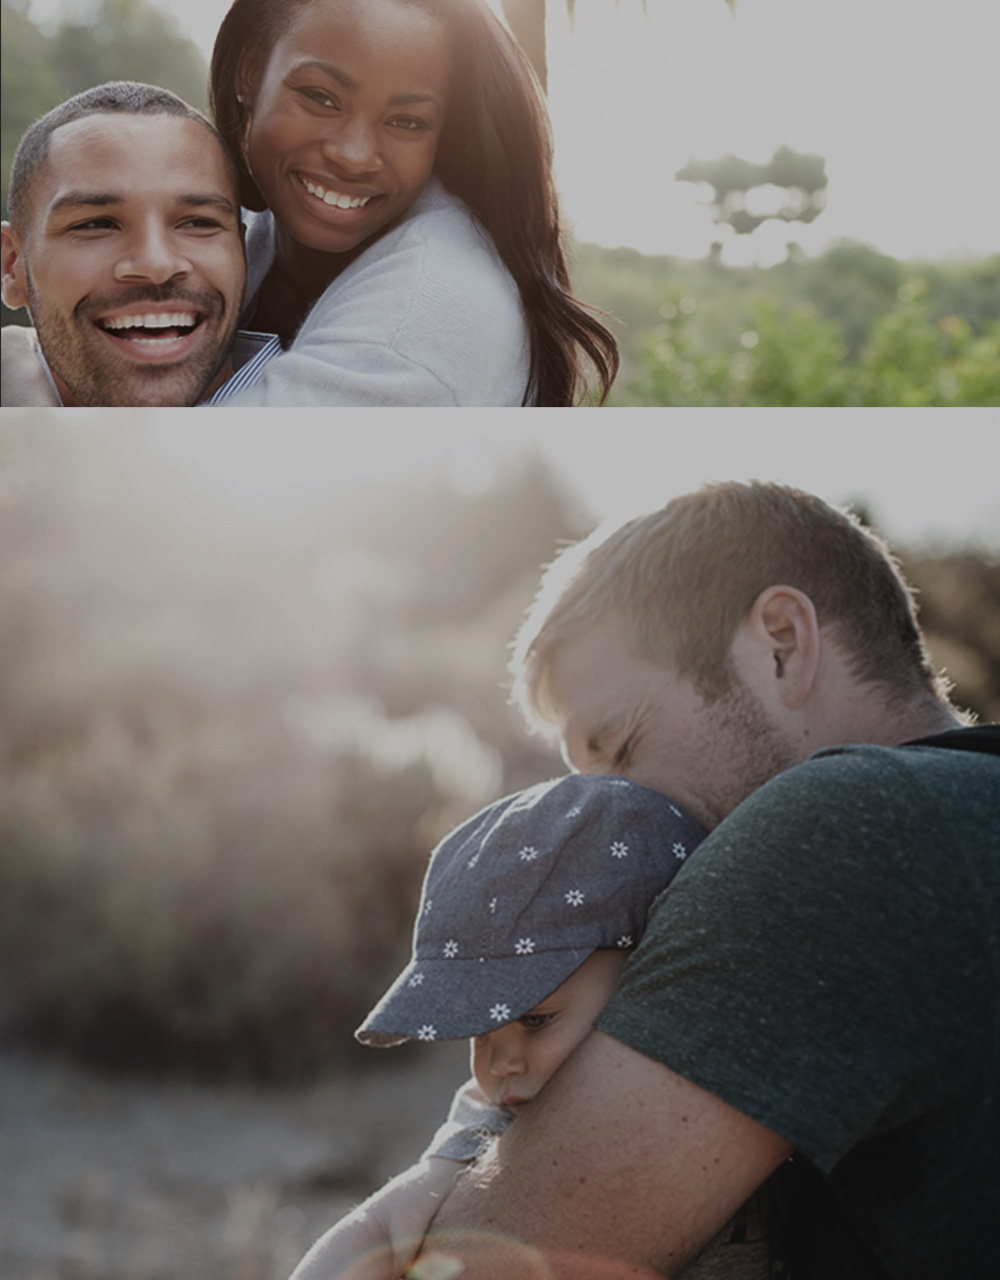
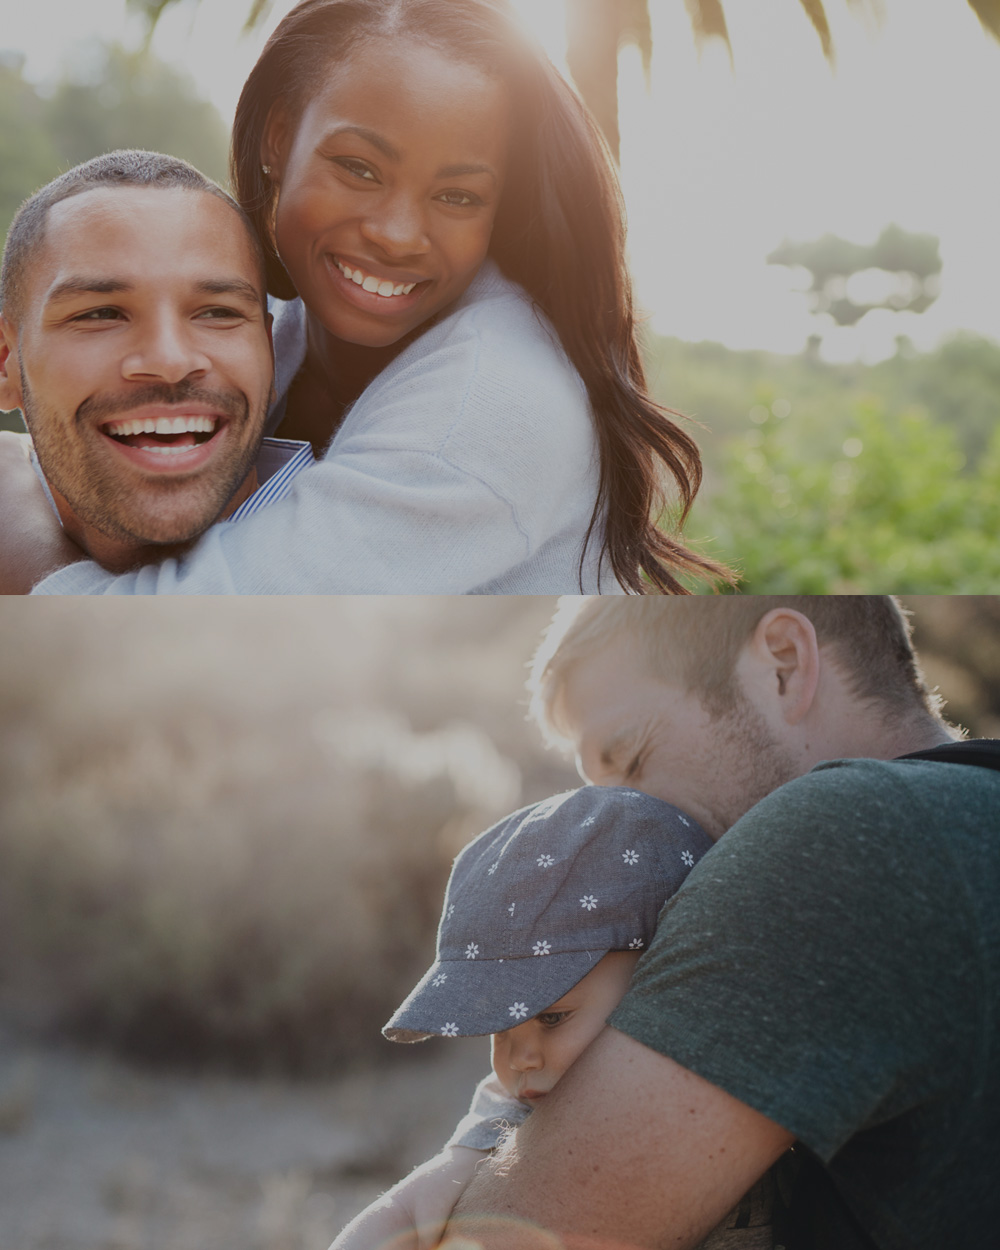
responsive styles

diff --git a/village/css/main.css b/village/css/main.css
@@ -152,7 +152,7 @@ p {
     color: #197bd6; }
   .section-copy h3 {
     font-size: 40px;
-    line-height: 40px;
+    line-height: 45px;
     margin-bottom: 40px; }
   .section-copy p {
     font-size: 18px;
@@ -174,7 +174,7 @@ Header
 header {
   position: fixed;
   z-index: 999;
-  background: white;
+  background: rgba(255, 255, 255, 0.9);
   width: 100%;
   height: 100px;
   top: 0;
@@ -184,11 +184,11 @@ header {
     height: 100%; }
   header .logo {
     padding-top: 15px;
-    margin-left: 60px; }
+    margin-left: 0; }
   header nav {
     position: absolute;
     top: 0;
-    right: 60px; }
+    right: 0; }
     header nav li {
       display: inline;
       height: 100px;
@@ -230,7 +230,7 @@ Hero
     max-width: 480px; }
     .hero .hero-copy h1 {
       font-size: 70px;
-      line-height: 70px;
+      line-height: 75px;
       color: white; }
     .hero .hero-copy h2 {
       font-size: 28px;
@@ -254,7 +254,8 @@ About Us
 
 –––––––––––––––––––––––––––––––––––––––––––––––––––––––––––––––––––––––– */
 .about-us {
-  height: 100%; }
+  height: 100%;
+  min-height: 850px; }
   .about-us .col-1-2 {
     height: 100%; }
   .about-us .section-image {
@@ -284,10 +285,10 @@ FAQs
   .faq-questions .question h4 {
     font-size: 20px;
     line-height: 28px;
-    margin-bottom: 15px; }
+    margin-bottom: 3px; }
   .faq-questions .question p {
     font-size: 18px;
-    line-height: 30px;
+    line-height: 28px;
     color: #999; }
 
 /* –––––––––––––––––––––––––––––––––––––––––––––––––––––––––––––––––––––
@@ -305,14 +306,16 @@ Pre-Register
     right: 0;
     padding: 0 60px 0 0;
     max-width: 550px; }
+    .pre-register .section-copy h3 {
+      text-indent: -2px; }
   .pre-register .section-form {
     height: 100%;
     float: right;
-    background: #197bd6; }
+    background: #197bd6;
+    padding-left: 60px; }
     .pre-register .section-form form {
       width: 100%;
       max-width: 550px;
-      padding-left: 60px;
       margin-top: 5px; }
       .pre-register .section-form form .field {
         margin-top: 15px; }
@@ -321,6 +324,7 @@ Pre-Register
         height: 50px;
         padding: 0 20px;
         font-size: 18px;
+        font-family: 'Lato', sans-serif;
         color: white;
         border: 2px solid rgba(255, 255, 255, 0.5);
         background: transparent;
@@ -363,7 +367,7 @@ Footer
 –––––––––––––––––––––––––––––––––––––––––––––––––––––––––––––––––––––––– */
 footer {
   padding: 60px 0;
-  background: #f6f6f6;
+  border-top: 1px solid #ddd;
   font-size: 12px;
   line-height: 50px; }
   footer .logo-mark {
@@ -375,6 +379,16 @@ footer {
       text-transform: uppercase; }
       footer .logo-mark li img {
         vertical-align: middle; }
+      footer .logo-mark li a {
+        color: #999;
+        text-decoration: none;
+        -webkit-transition: all 0.8s cubic-bezier(0.19, 1, 0.22, 1);
+        -moz-transition: all 0.8s cubic-bezier(0.19, 1, 0.22, 1);
+        -ms-transition: all 0.8s cubic-bezier(0.19, 1, 0.22, 1);
+        -o-transition: all 0.8s cubic-bezier(0.19, 1, 0.22, 1);
+        transition: all 0.8s cubic-bezier(0.19, 1, 0.22, 1); }
+        footer .logo-mark li a:hover {
+          color: #555; }
   footer .copyright {
     float: right;
     height: 50px;
@@ -486,7 +500,7 @@ footer {
     .faq-questions .question h4 {
       font-size: 18px;
       line-height: 26px;
-      margin-bottom: 10px; }
+      margin-bottom: 3px; }
     .faq-questions .question p {
       font-size: 16px;
       line-height: 26px; }

diff --git a/village/index.html b/village/index.html
@@ -18,7 +18,7 @@
 	
 	
 	<header>
-		
+		<div class="container">
 			<div class="logo scroll-to-link" data-id="hero"><img src="img/village-logo-blue.png" height="70"></div>
 			<nav>
 				<ul>
@@ -27,8 +27,7 @@
 					<li class="scroll-to-link" data-id="pre-register">Pre-Register</li>
 				</ul>
 			</nav>
-		
-		
+		</div>		
 	</header>
 
 		
@@ -39,7 +38,7 @@
 				<div class="col-1-2 flex-center-v">
 					<div class="hero-copy">
 						<h1>Welcome to the Village.</h1>
-						<h2>We're making medical care more affordable for you and your neighbors.</h2>
+						<h2>We're making medical care easy and affordable for you and your neighbors.</h2>
 						<button class="btn_primary scroll-to-link" data-id="pre-register">Pre-Register</button>
 					</div>
 				</div>
@@ -68,7 +67,7 @@
 					<div class="faq-questions">
 						<div class="question open">
 							<h4>This is question number one that needs to be answered in this section?</h4>
-							<p>Thundercats letterpress fixie health goth, pickled sartorial poutine viral hashtag. Meditation activated charcoal VHS, direct trade celiac hot chicken tousled franzen. Man bun austin pork belly hella put a bird on it slow-carb, raw denim yr post-ironic taxidermy meditation coloring book artisan. </p>
+							<p>Thundercats letterpress fixie health goth, pickled sartorial poutine viral hashtag. Meditation activated charcoal VHS, direct trade celiac hot chicken tousled franzen. </p>
 						</div>
 						<div class="question">
 							<h4>This is question number two that needs to be answered in this section?</h4>
@@ -76,11 +75,11 @@
 						</div>
 						<div class="question">
 							<h4>This is question number three that needs to be answered in this section?</h4>
-							<p>Thundercats letterpress fixie health goth, pickled sartorial poutine viral hashtag. Meditation activated charcoal VHS, direct trade celiac hot chicken tousled franzen. Man bun austin pork belly hella put a bird on it slow-carb, raw denim yr post-ironic taxidermy meditation coloring book artisan. </p>
+							<p>Thundercats letterpress fixie health goth, pickled sartorial poutine viral hashtag. Meditation activated charcoal VHS, direct trade celiac hot chicken tousled franzen.</p>
 						</div>
 						<div class="question">
 							<h4>This is question number four that needs to be answered in this section?</h4>
-							<p>Thundercats letterpress fixie health goth, pickled sartorial poutine viral hashtag. Meditation activated charcoal VHS, direct trade celiac hot chicken tousled franzen. Man bun austin pork belly hella put a bird on it slow-carb, raw denim yr post-ironic taxidermy meditation coloring book artisan. </p>
+							<p>Thundercats letterpress fixie health goth, pickled sartorial poutine viral hashtag. Meditation activated charcoal VHS, direct trade celiac hot chicken tousled franzen. Man bun austin pork belly hella put a bird on it slow-carb. </p>
 						</div>
 						<div class="question">
 							<h4>This is question number five that needs to be answered in this section?</h4>
@@ -119,9 +118,9 @@
 				<div class="logo-mark">
 					<ul>
 						<li><img src="img/village-mark.png" height="50"></li>
-						<li>Contact Us</li>
-						<li>Facebook</li>
-						<li>Twitter</li>
+						<li><a href="#">Contact Us</a></li>
+						<li><a href="#">Facebook</a></li>
+						<li><a href="#">Twitter</a></li>
 					</ul>
 				</div>
 				<div class="copyright">&copy; 2016 Village Healthcare</div>

diff --git a/village/sass/_globals.scss b/village/sass/_globals.scss
@@ -158,7 +158,7 @@ p{
     }
     h3{
         font-size:40px;
-        line-height:40px;
+        line-height:45px;
         margin-bottom:40px;
     }
     p{
@@ -183,7 +183,7 @@ Header
 header{
     position:fixed;
     z-index:999;
-    background:white;
+    background:rgba(255,255,255,0.9);
     width:100%;
     height:100px;
 	top:0;
@@ -194,12 +194,12 @@ header{
     }
     .logo{
         padding-top:15px;
-        margin-left:60px;
+        margin-left:0;
     }
     nav{
         position:absolute;
         top:0;
-        right:60px;
+        right:0;
         li{
             display:inline;
             height:100px;
@@ -242,7 +242,7 @@ Hero
         max-width:480px;
         h1{
             font-size:70px;
-            line-height:70px;
+            line-height:75px;
             color:white;
         }
         h2{
@@ -272,6 +272,7 @@ About Us
 –––––––––––––––––––––––––––––––––––––––––––––––––––––––––––––––––––––––– */
 .about-us{
     height:100%;
+    min-height:850px;
     .col-1-2{
         height:100%;
     }
@@ -311,11 +312,11 @@ FAQs
         h4{
             font-size:20px;
             line-height:28px;
-            margin-bottom:15px;
+            margin-bottom:3px;
         }
         p{
             font-size:18px;
-            line-height:30px;
+            line-height:28px;
             color:#999;
         }
     }
@@ -337,15 +338,18 @@ Pre-Register
         right:0;
         padding:0 60px 0 0;
         max-width:550px;
+        h3{
+            text-indent:-2px;
+        }
     }
     .section-form{
         height:100%;
         float:right;
         background:$blue; 
+        padding-left:60px;
         form{
             width:100%;
             max-width:550px;
-            padding-left:60px;
             margin-top:5px;
             .field{
                 margin-top:15px; 
@@ -355,6 +359,7 @@ Pre-Register
                 height:50px;
                 padding:0 20px;
                 font-size:18px;
+                font-family:'Lato', sans-serif;
                 color:white;
                 border:2px solid rgba(255,255,255,0.5);
                 background:transparent;
@@ -401,7 +406,7 @@ Footer
 –––––––––––––––––––––––––––––––––––––––––––––––––––––––––––––––––––––––– */
 footer{
 	padding:60px 0;
-    background:#f6f6f6;
+    border-top:1px solid #ddd;
     font-size:12px;
     line-height:50px;
     .logo-mark{
@@ -413,6 +418,14 @@ footer{
             text-transform:uppercase;
             img{
                 vertical-align:middle;
+            }
+            a{
+                color:#999;
+                text-decoration:none;
+                @include transition(all 0.8s $easeOutExpo);
+                &:hover{
+                    color:#555;
+                }
             }
         }
     }
@@ -554,7 +567,7 @@ footer{
             h4{
                 font-size:18px;
                 line-height:26px;
-                margin-bottom:10px;
+                margin-bottom:3px;
             }
             p{
                 font-size:16px;

diff --git a/village/js/main.js b/village/js/main.js
@@ -32,7 +32,7 @@ $(function(){
 
     function scrollStuff(){
 
-        var $scrollTop = $window.scrollTop()+100;
+        var $scrollTop = $window.scrollTop();
 
         $('section').each(function(){
 
@@ -54,11 +54,12 @@ $(function(){
         });
           
     };
+    scrollStuff();
 
 
 
     var scrollTime = 1.2;
-    var scrollDistance = 100;
+    var scrollDistance = 100
 
     $window.on("mousewheel", function(event){
 
@@ -81,7 +82,7 @@ $(function(){
     $('.scroll-to-link').on('click', function(e){
 
         var $target        = $(this).attr('data-id');
-        var $target_offset = $('#' + $target).offset().top -100;
+        var $target_offset = $('#' + $target).offset().top;
 
         TweenMax.to($window, 0.6, {
             scrollTo : { y: $target_offset},
